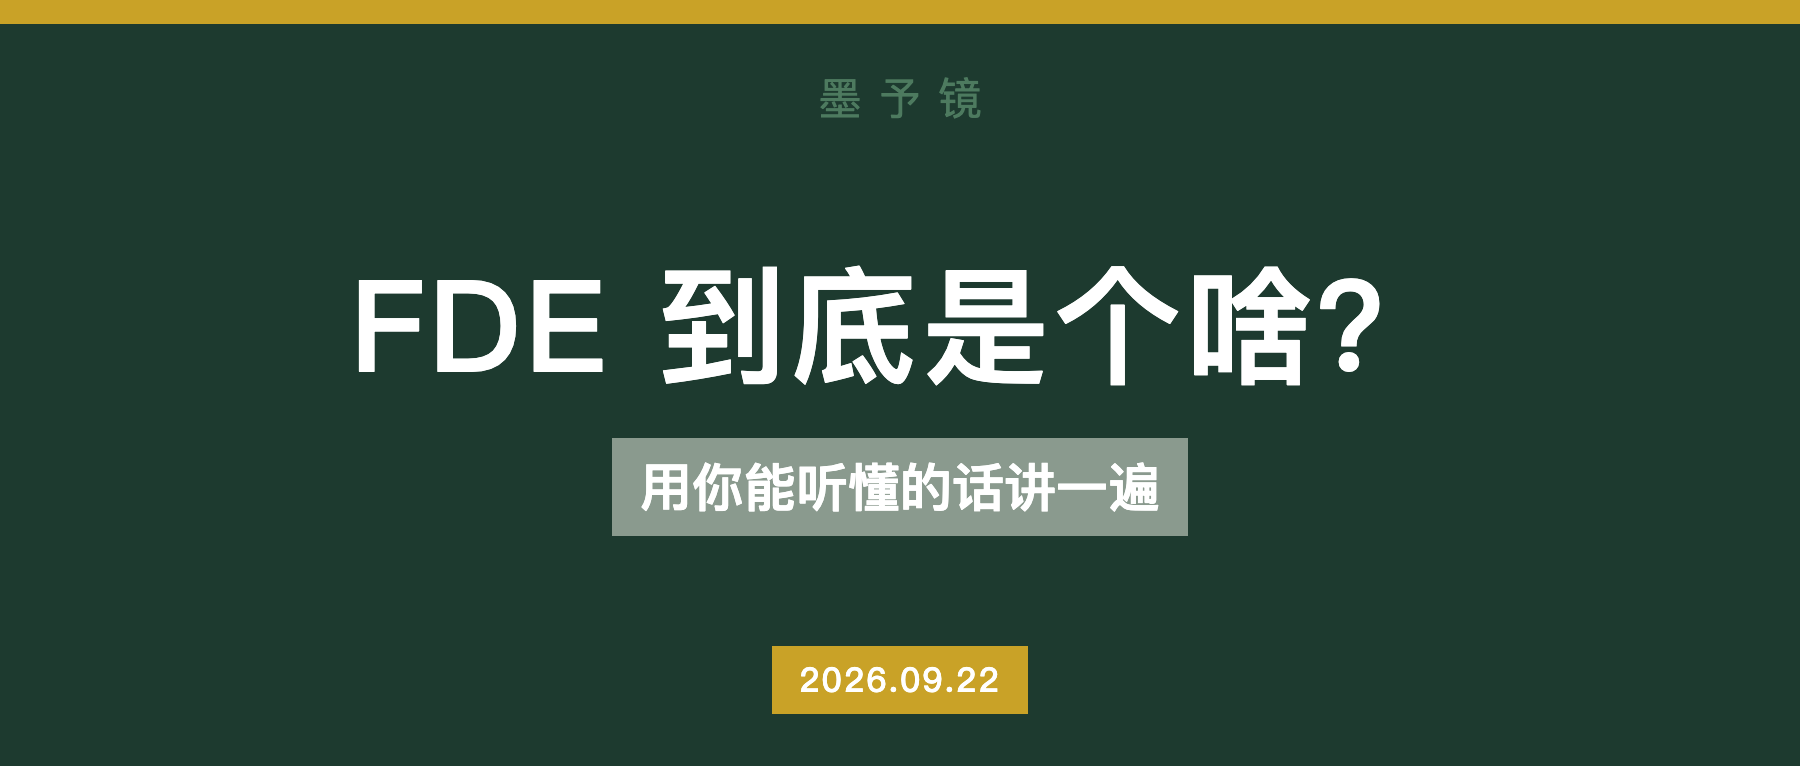
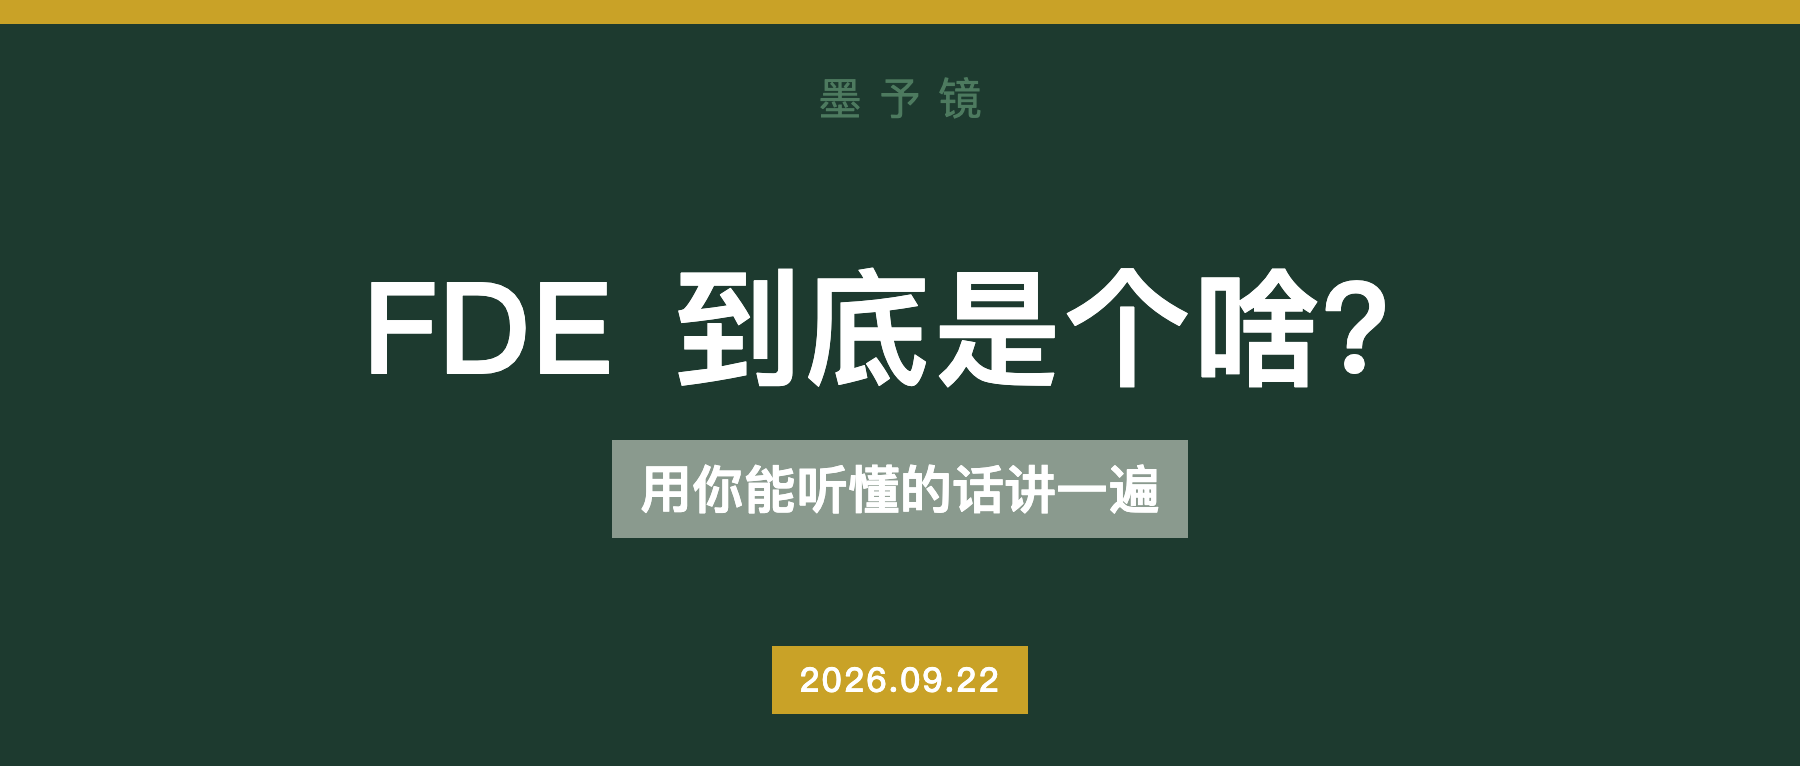
feat(moyujing-cover): 标题 64/副标题 26；中西文混排自动整齐化（拉丁对称间隙+标点挤压）；FDE 候选重出并换草稿封面

Changed region(s): [[0.3733, 0.3303, 0.7778, 0.5104], [0.1867, 0.3603, 0.3422, 0.5104], [0.3422, 0.6005, 0.6533, 0.6606]]

diff --git a/skills/moyujing-cover/templates/cover-v1.html b/skills/moyujing-cover/templates/cover-v1.html
@@ -52,12 +52,17 @@
   }
   .title {
     color: var(--title);
-    font-size: 76px;
+    font-size: 64px;
     font-weight: 800;
-    line-height: 1.15;
+    line-height: 1.2;
     text-align: center;
     padding: 0 40px;
-    letter-spacing: 2px;
+    letter-spacing: 1px;
+  }
+  /* 中西文混排整齐化：拉丁 run 两侧补对称间隙（替代手敲空格）；
+     全角标点做标点挤压，取消标点后的多余空位 */
+  .title .lat { letter-spacing: 0.5px; margin: 0 7px; }
+  .title .pq { letter-spacing: -0.32em; margin-right: 0.32em;
   }
   .subtitle {
     display: inline-block;
@@ -65,8 +70,8 @@
     color: var(--subtitle);
     font-family: "PingFang SC", "苹方-简", sans-serif;
     font-weight: 600;
-    font-size: 33px;
-    padding: 6px 16px;
+    font-size: 26px;
+    padding: 6px 14px;
     text-align: center;
   }
   .badge {
